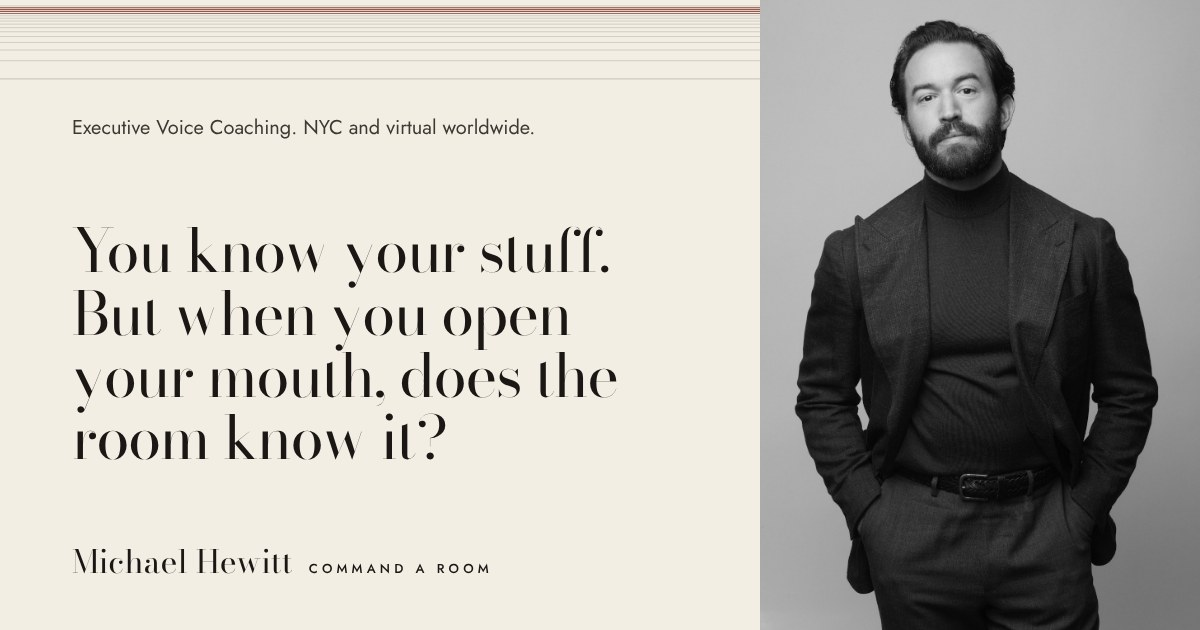
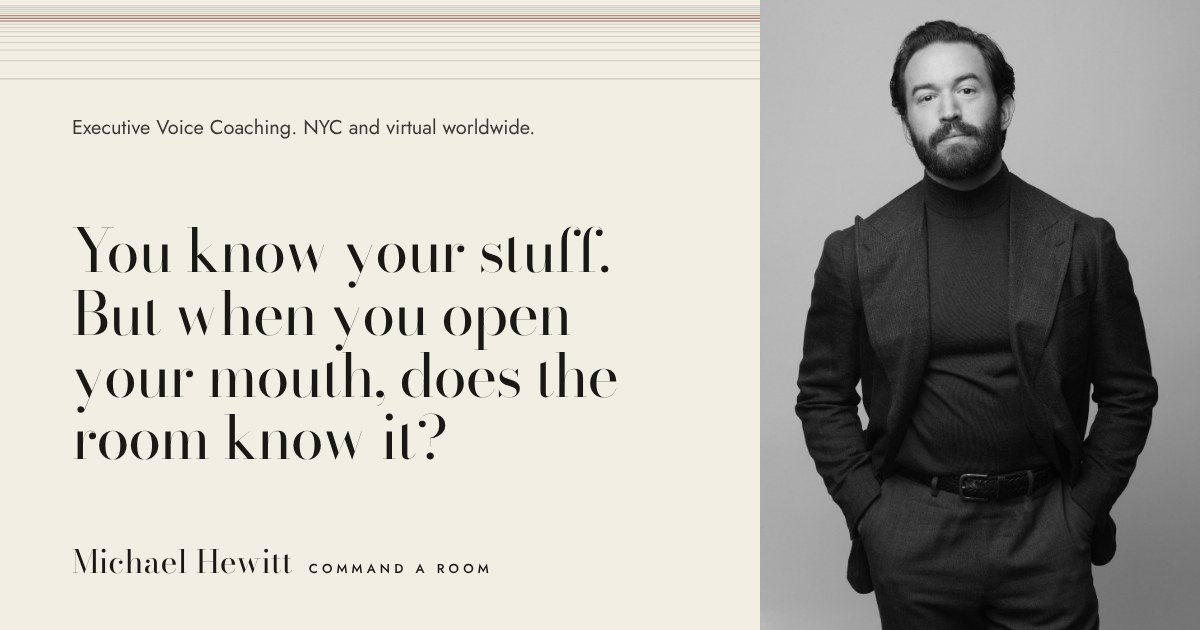
Draw the overtone lines for a sung middle C
The note in the paradox section now reads "the overtones of a sung middle C",
and the lines match it: the red band marks harmonics 9, 10, and 11 of middle C
(2.35, 2.62, and 2.88 kHz), the ones inside the singer's formant, instead of
harmonics 12 to 15. Same change in the lines under the header on every page,
in the share image, and in the Method video placeholder.

Claude-Session: https://claude.ai/code/session_01QdnQZVfjEsujKVwJckGhpx

Changed region(s): [[0.0, 0.0, 0.6475, 0.0603]]

diff --git a/public/index.html b/public/index.html
@@ -346,13 +346,13 @@ body.modal-open{overflow:hidden}
 <line x1="0" y1="377.8" x2="1000" y2="377.8" stroke="#1A1714" stroke-width="1" stroke-opacity="0.15" vector-effect="non-scaling-stroke"></line>
 <line x1="0" y1="329.4" x2="1000" y2="329.4" stroke="#1A1714" stroke-width="1" stroke-opacity="0.15" vector-effect="non-scaling-stroke"></line>
 <line x1="0" y1="287.5" x2="1000" y2="287.5" stroke="#1A1714" stroke-width="1" stroke-opacity="0.15" vector-effect="non-scaling-stroke"></line>
-<line x1="0" y1="250.5" x2="1000" y2="250.5" stroke="#1A1714" stroke-width="1" stroke-opacity="0.15" vector-effect="non-scaling-stroke"></line>
-<line x1="0" y1="217.5" x2="1000" y2="217.5" stroke="#1A1714" stroke-width="1" stroke-opacity="0.15" vector-effect="non-scaling-stroke"></line>
-<line x1="0" y1="187.6" x2="1000" y2="187.6" stroke="#1A1714" stroke-width="1" stroke-opacity="0.15" vector-effect="non-scaling-stroke"></line>
-<line x1="0" y1="160.3" x2="1000" y2="160.3" stroke="#7A2E22" stroke-width="0.9" stroke-opacity="0.78" vector-effect="non-scaling-stroke"></line>
-<line x1="0" y1="135.2" x2="1000" y2="135.2" stroke="#7A2E22" stroke-width="1.1" stroke-opacity="0.78" vector-effect="non-scaling-stroke"></line>
-<line x1="0" y1="111.9" x2="1000" y2="111.9" stroke="#7A2E22" stroke-width="1.1" stroke-opacity="0.78" vector-effect="non-scaling-stroke"></line>
-<line x1="0" y1="90.3" x2="1000" y2="90.3" stroke="#7A2E22" stroke-width="0.9" stroke-opacity="0.78" vector-effect="non-scaling-stroke"></line>
+<line x1="0" y1="250.5" x2="1000" y2="250.5" stroke="#7A2E22" stroke-width="0.9" stroke-opacity="0.78" vector-effect="non-scaling-stroke"></line>
+<line x1="0" y1="217.5" x2="1000" y2="217.5" stroke="#7A2E22" stroke-width="1.1" stroke-opacity="0.78" vector-effect="non-scaling-stroke"></line>
+<line x1="0" y1="187.6" x2="1000" y2="187.6" stroke="#7A2E22" stroke-width="0.9" stroke-opacity="0.78" vector-effect="non-scaling-stroke"></line>
+<line x1="0" y1="160.3" x2="1000" y2="160.3" stroke="#1A1714" stroke-width="1" stroke-opacity="0.15" vector-effect="non-scaling-stroke"></line>
+<line x1="0" y1="135.2" x2="1000" y2="135.2" stroke="#1A1714" stroke-width="1" stroke-opacity="0.15" vector-effect="non-scaling-stroke"></line>
+<line x1="0" y1="111.9" x2="1000" y2="111.9" stroke="#1A1714" stroke-width="1" stroke-opacity="0.15" vector-effect="non-scaling-stroke"></line>
+<line x1="0" y1="90.3" x2="1000" y2="90.3" stroke="#1A1714" stroke-width="1" stroke-opacity="0.15" vector-effect="non-scaling-stroke"></line>
 <line x1="0" y1="70.0" x2="1000" y2="70.0" stroke="#1A1714" stroke-width="1" stroke-opacity="0.15" vector-effect="non-scaling-stroke"></line>
 </svg></div>
 <div style="max-width: 1280px; margin: 0 auto; box-sizing: border-box; padding: clamp(28px, 3.4vw, 48px) clamp(20px, 5vw, 64px) clamp(48px, 6vw, 88px); display: flex; flex-direction: column; gap: clamp(28px, 4vw, 56px);">
@@ -424,7 +424,7 @@ body.modal-open{overflow:hidden}
 </div>
 <div class="sig-body">
 <p class="lead">Tone is the signal that’s present in what is otherwise noise.</p>
-<p class="sig-note">The lines at the top of the page are the overtones of a sung low G. The red band is the singer’s formant, the resonance that carries an unamplified voice over a full orchestra.</p>
+<p class="sig-note">The lines at the top of the page are the overtones of a sung middle C. The red band is the singer’s formant, the resonance that carries an unamplified voice over a full orchestra.</p>
 </div>
 </div>
 </section>
@@ -468,13 +468,13 @@ body.modal-open{overflow:hidden}
 <line x1="0" y1="377.8" x2="1000" y2="377.8" stroke="#F3EEE4" stroke-width="1" stroke-opacity="0.2" vector-effect="non-scaling-stroke"></line>
 <line x1="0" y1="329.4" x2="1000" y2="329.4" stroke="#F3EEE4" stroke-width="1" stroke-opacity="0.2" vector-effect="non-scaling-stroke"></line>
 <line x1="0" y1="287.5" x2="1000" y2="287.5" stroke="#F3EEE4" stroke-width="1" stroke-opacity="0.2" vector-effect="non-scaling-stroke"></line>
-<line x1="0" y1="250.5" x2="1000" y2="250.5" stroke="#F3EEE4" stroke-width="1" stroke-opacity="0.2" vector-effect="non-scaling-stroke"></line>
-<line x1="0" y1="217.5" x2="1000" y2="217.5" stroke="#F3EEE4" stroke-width="1" stroke-opacity="0.2" vector-effect="non-scaling-stroke"></line>
-<line x1="0" y1="187.6" x2="1000" y2="187.6" stroke="#F3EEE4" stroke-width="1" stroke-opacity="0.2" vector-effect="non-scaling-stroke"></line>
-<line x1="0" y1="160.3" x2="1000" y2="160.3" stroke="#9C3B2C" stroke-width="1.4" stroke-opacity="0.95" vector-effect="non-scaling-stroke"></line>
-<line x1="0" y1="135.2" x2="1000" y2="135.2" stroke="#9C3B2C" stroke-width="1.4" stroke-opacity="0.95" vector-effect="non-scaling-stroke"></line>
-<line x1="0" y1="111.9" x2="1000" y2="111.9" stroke="#9C3B2C" stroke-width="1.4" stroke-opacity="0.95" vector-effect="non-scaling-stroke"></line>
-<line x1="0" y1="90.3" x2="1000" y2="90.3" stroke="#9C3B2C" stroke-width="1.4" stroke-opacity="0.95" vector-effect="non-scaling-stroke"></line>
+<line x1="0" y1="250.5" x2="1000" y2="250.5" stroke="#9C3B2C" stroke-width="1.4" stroke-opacity="0.95" vector-effect="non-scaling-stroke"></line>
+<line x1="0" y1="217.5" x2="1000" y2="217.5" stroke="#9C3B2C" stroke-width="1.4" stroke-opacity="0.95" vector-effect="non-scaling-stroke"></line>
+<line x1="0" y1="187.6" x2="1000" y2="187.6" stroke="#9C3B2C" stroke-width="1.4" stroke-opacity="0.95" vector-effect="non-scaling-stroke"></line>
+<line x1="0" y1="160.3" x2="1000" y2="160.3" stroke="#F3EEE4" stroke-width="1" stroke-opacity="0.2" vector-effect="non-scaling-stroke"></line>
+<line x1="0" y1="135.2" x2="1000" y2="135.2" stroke="#F3EEE4" stroke-width="1" stroke-opacity="0.2" vector-effect="non-scaling-stroke"></line>
+<line x1="0" y1="111.9" x2="1000" y2="111.9" stroke="#F3EEE4" stroke-width="1" stroke-opacity="0.2" vector-effect="non-scaling-stroke"></line>
+<line x1="0" y1="90.3" x2="1000" y2="90.3" stroke="#F3EEE4" stroke-width="1" stroke-opacity="0.2" vector-effect="non-scaling-stroke"></line>
 <line x1="0" y1="70.0" x2="1000" y2="70.0" stroke="#F3EEE4" stroke-width="1" stroke-opacity="0.2" vector-effect="non-scaling-stroke"></line>
 </svg>
 </div>

diff --git a/public/wall-of-love/index.html b/public/wall-of-love/index.html
@@ -347,13 +347,13 @@ body.modal-open{overflow:hidden}
 <line x1="0" y1="377.8" x2="1000" y2="377.8" stroke="#1A1714" stroke-width="1" stroke-opacity="0.15" vector-effect="non-scaling-stroke"></line>
 <line x1="0" y1="329.4" x2="1000" y2="329.4" stroke="#1A1714" stroke-width="1" stroke-opacity="0.15" vector-effect="non-scaling-stroke"></line>
 <line x1="0" y1="287.5" x2="1000" y2="287.5" stroke="#1A1714" stroke-width="1" stroke-opacity="0.15" vector-effect="non-scaling-stroke"></line>
-<line x1="0" y1="250.5" x2="1000" y2="250.5" stroke="#1A1714" stroke-width="1" stroke-opacity="0.15" vector-effect="non-scaling-stroke"></line>
-<line x1="0" y1="217.5" x2="1000" y2="217.5" stroke="#1A1714" stroke-width="1" stroke-opacity="0.15" vector-effect="non-scaling-stroke"></line>
-<line x1="0" y1="187.6" x2="1000" y2="187.6" stroke="#1A1714" stroke-width="1" stroke-opacity="0.15" vector-effect="non-scaling-stroke"></line>
-<line x1="0" y1="160.3" x2="1000" y2="160.3" stroke="#7A2E22" stroke-width="0.9" stroke-opacity="0.78" vector-effect="non-scaling-stroke"></line>
-<line x1="0" y1="135.2" x2="1000" y2="135.2" stroke="#7A2E22" stroke-width="1.1" stroke-opacity="0.78" vector-effect="non-scaling-stroke"></line>
-<line x1="0" y1="111.9" x2="1000" y2="111.9" stroke="#7A2E22" stroke-width="1.1" stroke-opacity="0.78" vector-effect="non-scaling-stroke"></line>
-<line x1="0" y1="90.3" x2="1000" y2="90.3" stroke="#7A2E22" stroke-width="0.9" stroke-opacity="0.78" vector-effect="non-scaling-stroke"></line>
+<line x1="0" y1="250.5" x2="1000" y2="250.5" stroke="#7A2E22" stroke-width="0.9" stroke-opacity="0.78" vector-effect="non-scaling-stroke"></line>
+<line x1="0" y1="217.5" x2="1000" y2="217.5" stroke="#7A2E22" stroke-width="1.1" stroke-opacity="0.78" vector-effect="non-scaling-stroke"></line>
+<line x1="0" y1="187.6" x2="1000" y2="187.6" stroke="#7A2E22" stroke-width="0.9" stroke-opacity="0.78" vector-effect="non-scaling-stroke"></line>
+<line x1="0" y1="160.3" x2="1000" y2="160.3" stroke="#1A1714" stroke-width="1" stroke-opacity="0.15" vector-effect="non-scaling-stroke"></line>
+<line x1="0" y1="135.2" x2="1000" y2="135.2" stroke="#1A1714" stroke-width="1" stroke-opacity="0.15" vector-effect="non-scaling-stroke"></line>
+<line x1="0" y1="111.9" x2="1000" y2="111.9" stroke="#1A1714" stroke-width="1" stroke-opacity="0.15" vector-effect="non-scaling-stroke"></line>
+<line x1="0" y1="90.3" x2="1000" y2="90.3" stroke="#1A1714" stroke-width="1" stroke-opacity="0.15" vector-effect="non-scaling-stroke"></line>
 <line x1="0" y1="70.0" x2="1000" y2="70.0" stroke="#1A1714" stroke-width="1" stroke-opacity="0.15" vector-effect="non-scaling-stroke"></line>
 </svg></div>
 <div style="max-width: 1280px; margin: 0 auto; box-sizing: border-box; padding: clamp(28px, 3.4vw, 48px) clamp(20px, 5vw, 64px) clamp(56px, 9vw, 128px); display: flex; flex-direction: column; gap: clamp(44px, 6vw, 72px);">

diff --git a/public/apply/index.html b/public/apply/index.html
@@ -115,13 +115,13 @@ img{max-width:100%;height:auto}
 <line x1="0" y1="377.8" x2="1000" y2="377.8" stroke="#1A1714" stroke-width="1" stroke-opacity="0.15" vector-effect="non-scaling-stroke"></line>
 <line x1="0" y1="329.4" x2="1000" y2="329.4" stroke="#1A1714" stroke-width="1" stroke-opacity="0.15" vector-effect="non-scaling-stroke"></line>
 <line x1="0" y1="287.5" x2="1000" y2="287.5" stroke="#1A1714" stroke-width="1" stroke-opacity="0.15" vector-effect="non-scaling-stroke"></line>
-<line x1="0" y1="250.5" x2="1000" y2="250.5" stroke="#1A1714" stroke-width="1" stroke-opacity="0.15" vector-effect="non-scaling-stroke"></line>
-<line x1="0" y1="217.5" x2="1000" y2="217.5" stroke="#1A1714" stroke-width="1" stroke-opacity="0.15" vector-effect="non-scaling-stroke"></line>
-<line x1="0" y1="187.6" x2="1000" y2="187.6" stroke="#1A1714" stroke-width="1" stroke-opacity="0.15" vector-effect="non-scaling-stroke"></line>
-<line x1="0" y1="160.3" x2="1000" y2="160.3" stroke="#7A2E22" stroke-width="0.9" stroke-opacity="0.78" vector-effect="non-scaling-stroke"></line>
-<line x1="0" y1="135.2" x2="1000" y2="135.2" stroke="#7A2E22" stroke-width="1.1" stroke-opacity="0.78" vector-effect="non-scaling-stroke"></line>
-<line x1="0" y1="111.9" x2="1000" y2="111.9" stroke="#7A2E22" stroke-width="1.1" stroke-opacity="0.78" vector-effect="non-scaling-stroke"></line>
-<line x1="0" y1="90.3" x2="1000" y2="90.3" stroke="#7A2E22" stroke-width="0.9" stroke-opacity="0.78" vector-effect="non-scaling-stroke"></line>
+<line x1="0" y1="250.5" x2="1000" y2="250.5" stroke="#7A2E22" stroke-width="0.9" stroke-opacity="0.78" vector-effect="non-scaling-stroke"></line>
+<line x1="0" y1="217.5" x2="1000" y2="217.5" stroke="#7A2E22" stroke-width="1.1" stroke-opacity="0.78" vector-effect="non-scaling-stroke"></line>
+<line x1="0" y1="187.6" x2="1000" y2="187.6" stroke="#7A2E22" stroke-width="0.9" stroke-opacity="0.78" vector-effect="non-scaling-stroke"></line>
+<line x1="0" y1="160.3" x2="1000" y2="160.3" stroke="#1A1714" stroke-width="1" stroke-opacity="0.15" vector-effect="non-scaling-stroke"></line>
+<line x1="0" y1="135.2" x2="1000" y2="135.2" stroke="#1A1714" stroke-width="1" stroke-opacity="0.15" vector-effect="non-scaling-stroke"></line>
+<line x1="0" y1="111.9" x2="1000" y2="111.9" stroke="#1A1714" stroke-width="1" stroke-opacity="0.15" vector-effect="non-scaling-stroke"></line>
+<line x1="0" y1="90.3" x2="1000" y2="90.3" stroke="#1A1714" stroke-width="1" stroke-opacity="0.15" vector-effect="non-scaling-stroke"></line>
 <line x1="0" y1="70.0" x2="1000" y2="70.0" stroke="#1A1714" stroke-width="1" stroke-opacity="0.15" vector-effect="non-scaling-stroke"></line>
 </svg></div>
 <div style="max-width: 1280px; margin: 0 auto; box-sizing: border-box; padding: clamp(28px, 3.4vw, 48px) clamp(20px, 5vw, 64px) clamp(48px, 6vw, 88px); display: flex; flex-direction: column; gap: clamp(28px, 4vw, 56px);">

diff --git a/public/method/index.html b/public/method/index.html
@@ -347,13 +347,13 @@ body.modal-open{overflow:hidden}
 <line x1="0" y1="377.8" x2="1000" y2="377.8" stroke="#1A1714" stroke-width="1" stroke-opacity="0.15" vector-effect="non-scaling-stroke"></line>
 <line x1="0" y1="329.4" x2="1000" y2="329.4" stroke="#1A1714" stroke-width="1" stroke-opacity="0.15" vector-effect="non-scaling-stroke"></line>
 <line x1="0" y1="287.5" x2="1000" y2="287.5" stroke="#1A1714" stroke-width="1" stroke-opacity="0.15" vector-effect="non-scaling-stroke"></line>
-<line x1="0" y1="250.5" x2="1000" y2="250.5" stroke="#1A1714" stroke-width="1" stroke-opacity="0.15" vector-effect="non-scaling-stroke"></line>
-<line x1="0" y1="217.5" x2="1000" y2="217.5" stroke="#1A1714" stroke-width="1" stroke-opacity="0.15" vector-effect="non-scaling-stroke"></line>
-<line x1="0" y1="187.6" x2="1000" y2="187.6" stroke="#1A1714" stroke-width="1" stroke-opacity="0.15" vector-effect="non-scaling-stroke"></line>
-<line x1="0" y1="160.3" x2="1000" y2="160.3" stroke="#7A2E22" stroke-width="0.9" stroke-opacity="0.78" vector-effect="non-scaling-stroke"></line>
-<line x1="0" y1="135.2" x2="1000" y2="135.2" stroke="#7A2E22" stroke-width="1.1" stroke-opacity="0.78" vector-effect="non-scaling-stroke"></line>
-<line x1="0" y1="111.9" x2="1000" y2="111.9" stroke="#7A2E22" stroke-width="1.1" stroke-opacity="0.78" vector-effect="non-scaling-stroke"></line>
-<line x1="0" y1="90.3" x2="1000" y2="90.3" stroke="#7A2E22" stroke-width="0.9" stroke-opacity="0.78" vector-effect="non-scaling-stroke"></line>
+<line x1="0" y1="250.5" x2="1000" y2="250.5" stroke="#7A2E22" stroke-width="0.9" stroke-opacity="0.78" vector-effect="non-scaling-stroke"></line>
+<line x1="0" y1="217.5" x2="1000" y2="217.5" stroke="#7A2E22" stroke-width="1.1" stroke-opacity="0.78" vector-effect="non-scaling-stroke"></line>
+<line x1="0" y1="187.6" x2="1000" y2="187.6" stroke="#7A2E22" stroke-width="0.9" stroke-opacity="0.78" vector-effect="non-scaling-stroke"></line>
+<line x1="0" y1="160.3" x2="1000" y2="160.3" stroke="#1A1714" stroke-width="1" stroke-opacity="0.15" vector-effect="non-scaling-stroke"></line>
+<line x1="0" y1="135.2" x2="1000" y2="135.2" stroke="#1A1714" stroke-width="1" stroke-opacity="0.15" vector-effect="non-scaling-stroke"></line>
+<line x1="0" y1="111.9" x2="1000" y2="111.9" stroke="#1A1714" stroke-width="1" stroke-opacity="0.15" vector-effect="non-scaling-stroke"></line>
+<line x1="0" y1="90.3" x2="1000" y2="90.3" stroke="#1A1714" stroke-width="1" stroke-opacity="0.15" vector-effect="non-scaling-stroke"></line>
 <line x1="0" y1="70.0" x2="1000" y2="70.0" stroke="#1A1714" stroke-width="1" stroke-opacity="0.15" vector-effect="non-scaling-stroke"></line>
 </svg></div>
 <div style="max-width: 1280px; margin: 0 auto; box-sizing: border-box; padding: clamp(28px, 3.4vw, 48px) clamp(20px, 5vw, 64px) clamp(56px, 8vw, 104px); display: flex; flex-direction: column; gap: 28px;">
